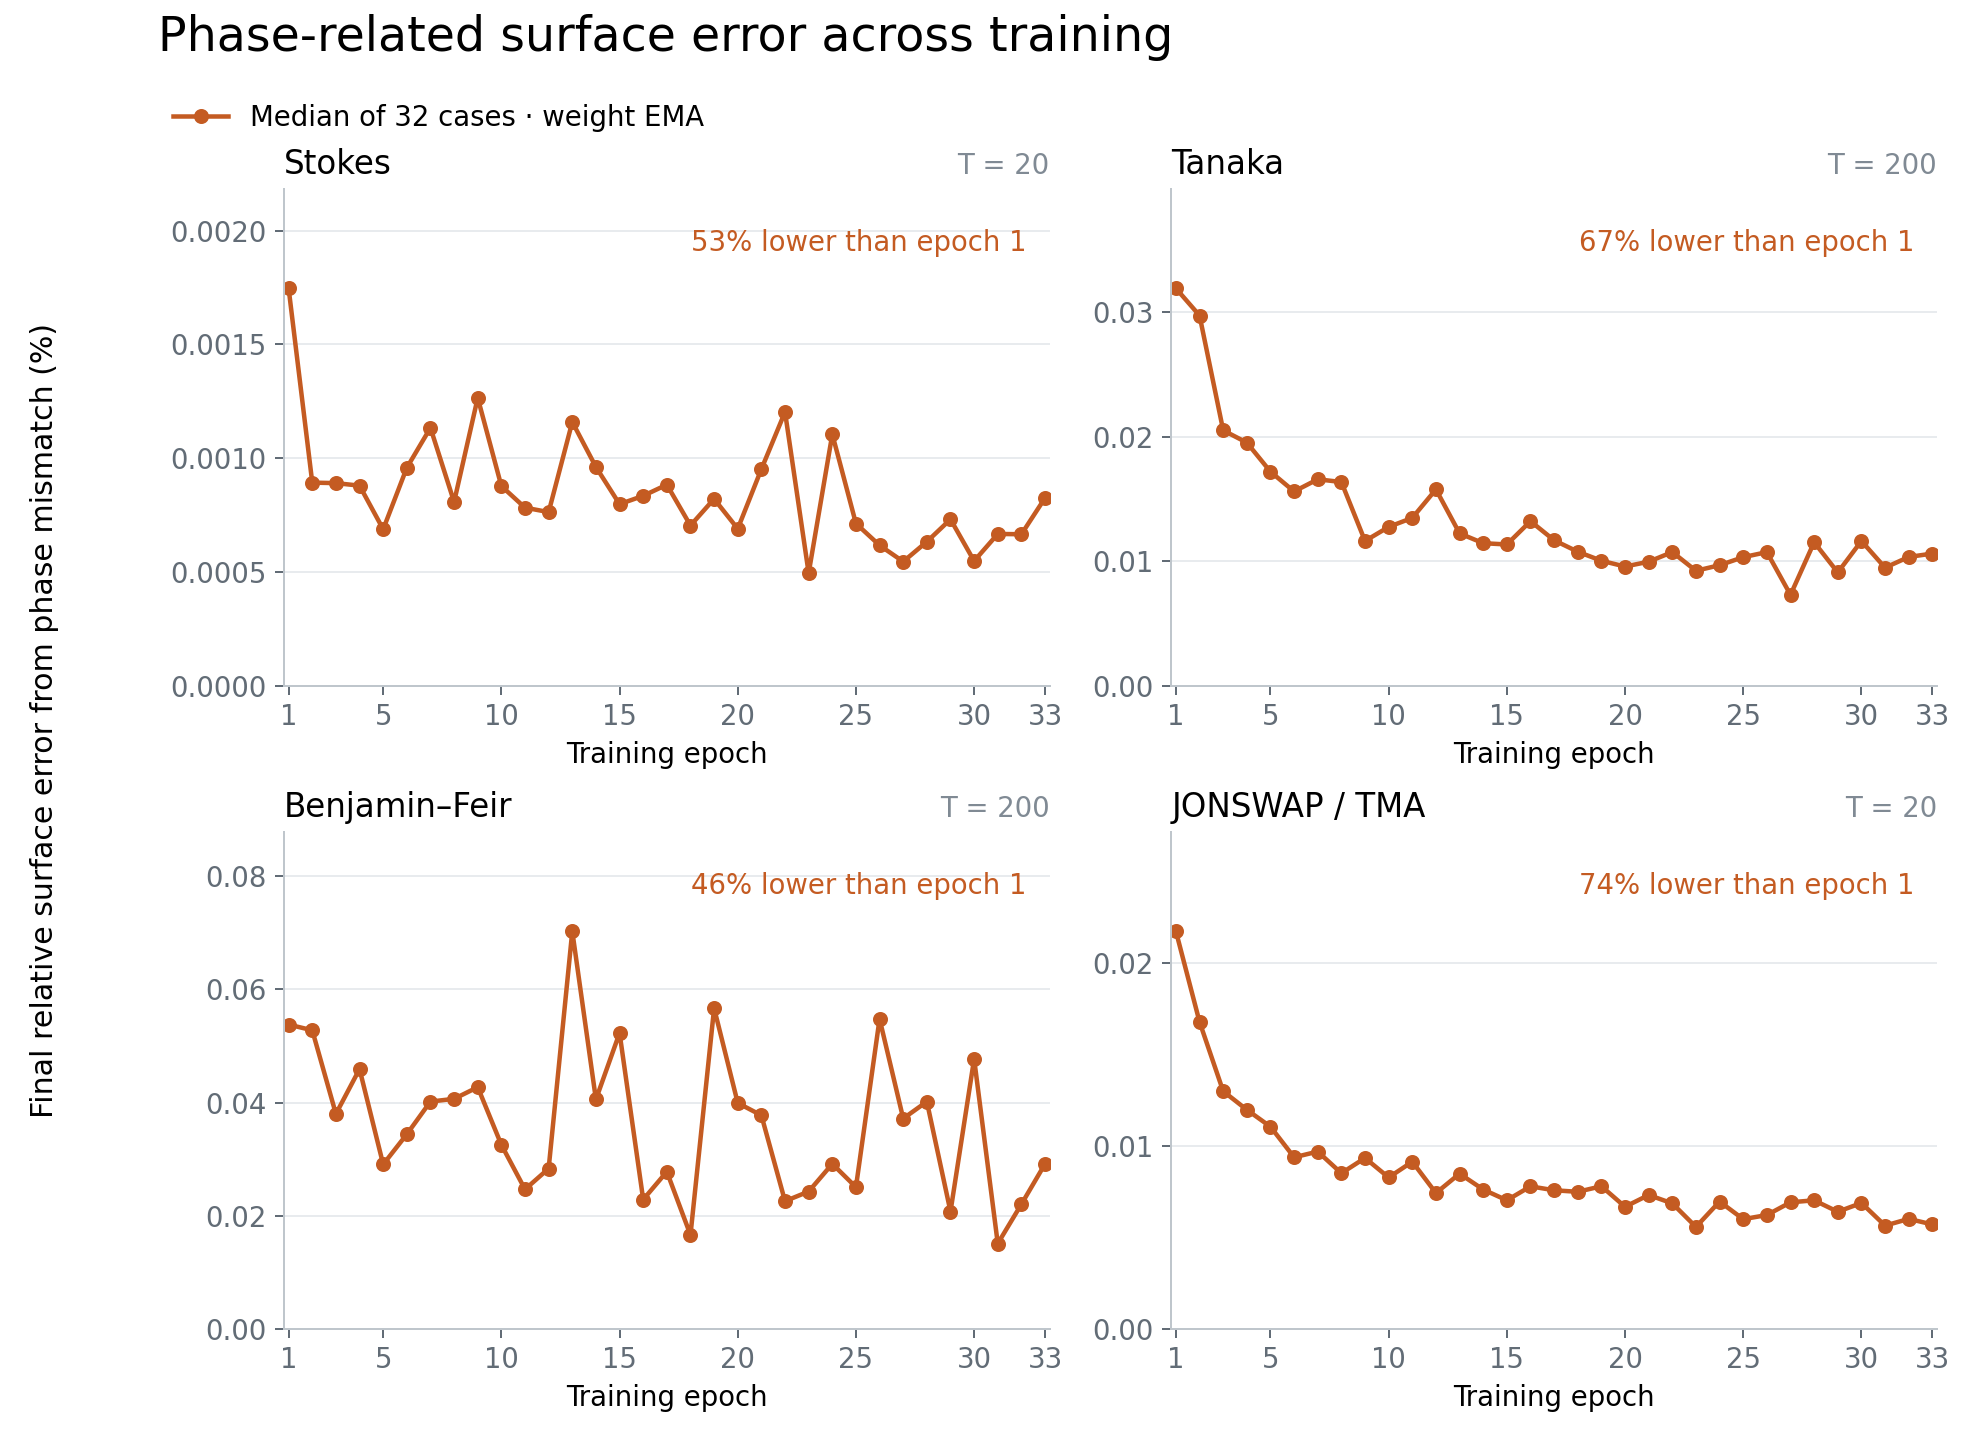
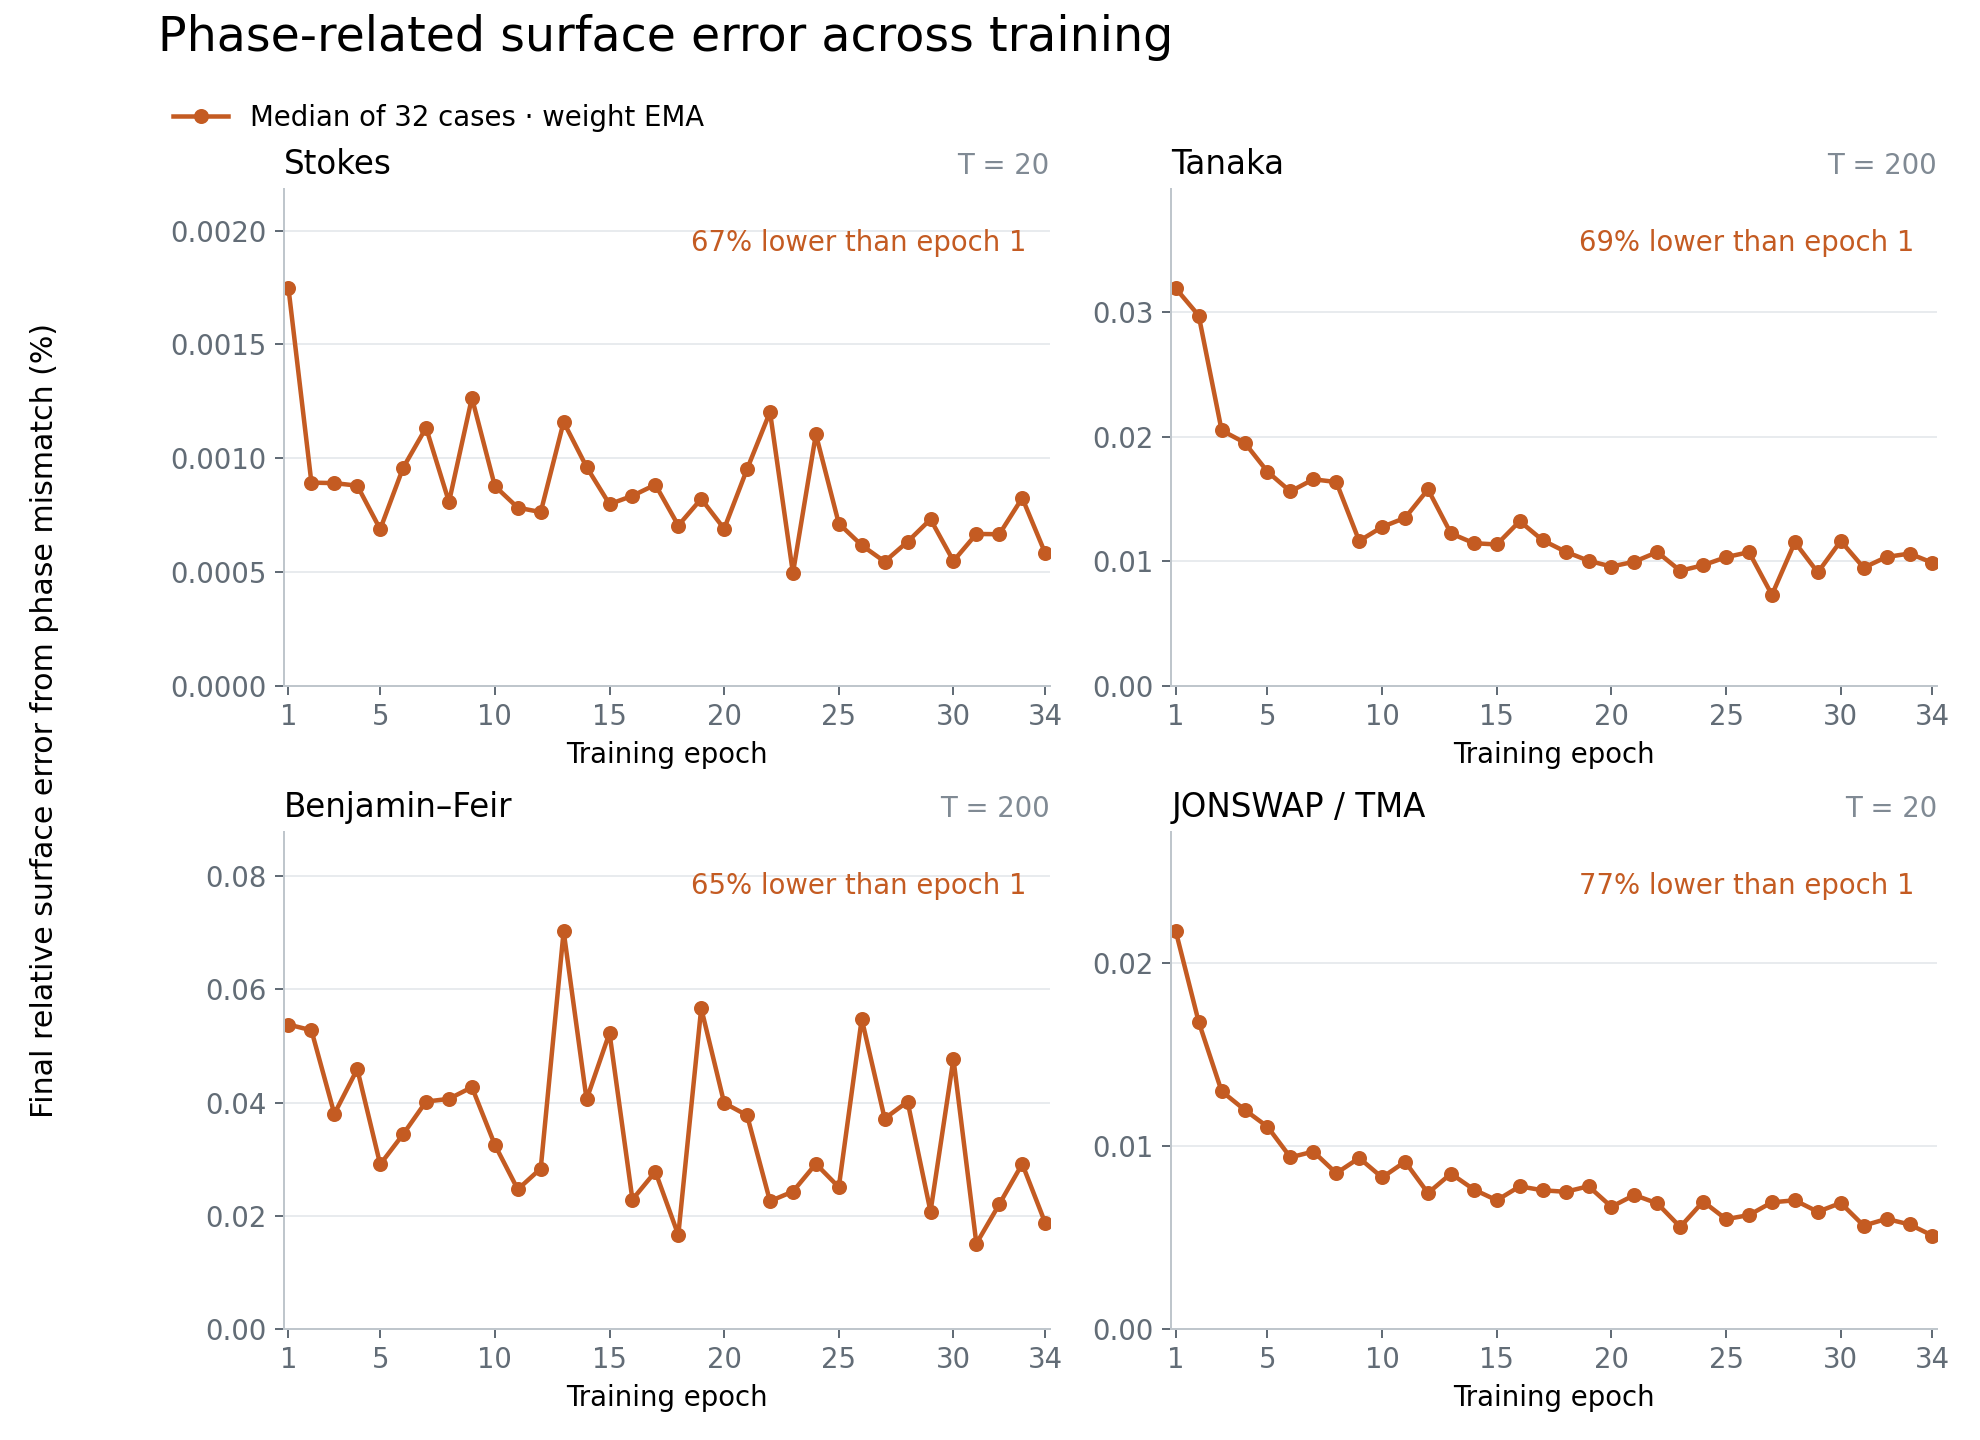
Record epoch 34 EMA results and recent rollout trend

diff --git a/paper-plots/plot_phase_diagnostics.py b/paper-plots/plot_phase_diagnostics.py
@@ -75,7 +75,7 @@ def main() -> None:
         "pdf.fonttype": 42, "ps.fonttype": 42,
     })
     if args.phase_training:
-        epochs = np.arange(1, 34)
+        epochs = np.arange(1, 35)
         evaluations = [
             ROOT / "outputs/c27_phase1_lr8_momentum_half_ema995_grad05_adam05_b2099_batch16_hd04_band128_nested1_gamma32_full_20261012/eval_fast_weight_ema_nestedfused_contextbatch",
             *(ROOT / f"outputs/c27_nested_b16_ema_low_lr_continue_20261014/eval_epoch{epoch}_weight_ema" for epoch in (2, 3)),

diff --git a/experiments/experiments-2026-10-17.md b/experiments/experiments-2026-10-17.md
@@ -1,6 +1,6 @@
 # Experiments — 2026-10-17
 
-Epoch 31 remains the aggregate rollout best through epoch 33 under the approved low-LR continuation. Epoch 33's pooled terminal surface-error GM rises 22.2% versus 31; phase-related error rises 27.4% and amplitude-related error rises 3.0%. JONSWAP improves 5.9%, while the other three families regress. Figure 12c retains epoch-31 weight EMA with unchanged measured Ada timings; Figure 22 includes epochs 1–33. Validation-best remains 32, with patience 1/5; epoch 34 resumed automatically. The longer-run experiment remains ongoing.
+Epoch 31 remains the aggregate rollout best through epoch 34 under the approved low-LR continuation. Epoch 34 is second-best: pooled terminal surface-error GM is 3.1% above epoch 31 and 15.6% below epoch 33. The geometric mean over all 128 cases and epochs 30–34 is 12.7% below epochs 25–29, with all four families improving. Figure 12c retains epoch 31 with unchanged measured Ada timings; Figure 22 includes epochs 1–34. Validation-best remains 32, with patience 2/5; epoch 35 resumed automatically. The longer-run experiment remains ongoing.
 
 | Date | Time | File / Variant | Motivation | What Tried / Evidence | Correctness | Timing | Decision |
 | --- | --- | --- | --- | --- | --- | --- | --- |
@@ -9,3 +9,4 @@ Epoch 31 remains the aggregate rollout best through epoch 33 under the approved 
 | 2026-10-17 | 06:03 | `outputs/c27_nested_b16_ema_low_lr_ep60_20261014`: epoch 31 primary EMA; Figures 12c/22 | Test whether continued low-LR training can extend the first-epoch gains after recent rollout fluctuations; select on all128 cases and preserve a new best before automatic checkpoint retention. | New rollout best. Pooled eta/xi GM31/23=.896659/.906934 (76/76 wins),31/30=.661241/.656462 (87/88),31/1=.335411/.330288 (116/116). Eta/M2=.156786 (101 wins),eta/M3=.660689 (72). Family eta31/23 S/T/BF/J=.941919/.848875/.889324/.909059; all four terminal eta/xi and whole-trajectory eta GMs improve. Eta median/p95 percent: .000726501/.011048921, .010134870/.053794787, .020512522/.063563035, .007118716/.054904525. Pooled eta GM/median/p95=.005764420/.008774452/.054318073%; xi GM=.004503350%. Pooled terminal medians and Stokes' eta p95 worsen versus23, so improvement is not universal. Whole-trajectory eta31/23=.857492; exact phase=.900113,amplitude=.936694. Stokes phase GM rises2.1%; other family phase GMs improve. Validation selection1.165704442e-5 improves3.4634% over29; best31,patience0/5. | Independent CPU audit verifies matching128 IDs/times/depths across23/30/E1/M2/M3, finite fields, valid references, positive water depth and no configured failures; terminal eta/xi/Gxi norms match exactly. Root independently reproduces terminal/trajectory errors and direct Fourier phase/amplitude identity and ranks all31 epochs. Six state/export/best counters22856145; all52 EMA arrays/40384 scalars match. Retained `rollout_best_epoch31_ckpt/ckpt_31` plus metadata; all264 leaves/201924 scalars exactly match latest full state. Both EMAs,LR8e-6 and full-loss detached rollout supervision unchanged. Figure12c uses31 with unchanged measured B1 timings; fixed-case eta percent .000111603/.030684343/.030865586/.017080709. Figure22 phase medians .000667450/.009487865/.015062279/.005635039%, respectively61.8/70.3/72.0/74.0% below1. | Training02:04, finished within observed05:53–05:54; validation/export05:57; all EMA rollouts06:01; epoch32 resumed06:01. CPU audit/render06:01 onward; no new GPU timing. | MERGE Figures12c/22 refresh; select and retain31 by pooled terminal eta GM. Continue approved60-epoch ceiling and validation-patience-five rule unchanged; the60–120-epoch transfer goal remains ongoing. |
 | 2026-10-17 | 08:12 | `outputs/c27_nested_b16_ema_low_lr_ep60_20261014`: epoch 32 primary EMA; Figure 22 | Check whether the approved longer run extends epoch31's rollout gains and whether its phase-related improvements persist; keep selection based on all128 cases. | Retain31. Pooled eta/xi GM32/31=1.181598/1.188772 (63/59 wins),32/23=1.059491/1.078138 (69/69),32/1=.396321/.392637 (107/104). Eta/M2=.185258 (99 wins),eta/M3=.780669 (70). Family eta32/31 S/T/BF/J=1.367703/1.006387/1.480249/.956726: JONSWAP improves4.3%; Stokes/BF drive the regression. Eta median/p95 percent: .000668846/.007673295, .011367958/.101859348, .022543480/.097444241, .007275876/.052462251. Pooled eta GM/median/p95=.006811229/.010422038/.082574499%; xi GM=.005353454%. Whole-trajectory eta32/31=1.225133; exact phase=1.215731,amplitude=.978406. Stokes' median/p95 improve despite its worse GM. Validation selection1.144733182e-5 improves1.7990% over31; best32,patience0/5. | Independent CPU audit verifies matching128 IDs/times/depths across31/23/E1/M2/M3, identical neural reference eta, finite fields, valid references, positive water depth and no configured failures; terminal eta/xi/Gxi norms match exactly. Root independently reproduces terminal/trajectory errors and direct Fourier phase/amplitude identity and ranks all32 epochs. Six state/export/best counters23593440; all52 EMA arrays/40384 scalars match. Both EMAs,LR8e-6 and full-loss detached rollout supervision unchanged. Figure12c retains31 and unchanged measured B1 timings. Figure22 includes32; phase medians .000666176/.010346990/.022022162/.006002969%, respectively61.8/67.6/59.0/72.4% below1. Fixed-case32 eta percent .000282482/.054398182/.019063714/.016977287: improved BF/JONSWAP examples do not overturn pooled-GM selection. | Training02:02, finished within observed08:02–08:03; validation/export08:07; all EMA rollouts and automatic epoch33 resume08:10. CPU audit/render08:11 onward; no new GPU timing. | MERGE phase-history refresh; retain31 as rollout best. Continue approved60-epoch ceiling and validation-patience-five rule unchanged; sustained long-run transfer remains under evaluation. |
 | 2026-10-17 | 10:20 | `outputs/c27_nested_b16_ema_low_lr_ep60_20261014`: epoch 33 primary EMA; Figure 22 | Test whether continued low-LR training extends the first-epoch gains beyond the selected epoch31 checkpoint, using all128 rollouts and their phase decomposition. | Retain31. Pooled eta/xi GM33/31=1.222421/1.247238 (56/53 wins),33/32=1.034548/1.049182 (69/68),33/1=.410013/.411947 (112/112). Eta/M2=.191658 (103 wins),eta/M3=.807640 (72). Family eta33/31 S/T/BF/J=1.310055/1.221025/1.483280/.941121. Pooled eta GM/median/p95=.007046546/.009907255/.076501990%; xi GM=.005616748%. Whole-trajectory eta33/31=1.214137 but33/32=.991025; phase33/31=1.274043,amplitude=1.030149. Validation selection1.152619779e-5 rises.6889% over32; best32,patience1/5. | Independent CPU checks confirm matching128 IDs/times/depths across31/32/E1/M2/M3, finite fields, valid references, positive water depth and no configured failures; terminal eta/xi/Gxi norms match saved errors exactly. Root independently verifies terminal/trajectory errors, direct Fourier phase/amplitude identity and all33-epoch ranking. Latest/export and optimizer counters24330735; all52 EMA arrays/40384 scalars match latest shadows. Both EMAs,LR8e-6 and full-loss detached rollout supervision unchanged. Figure12c retains31 and unchanged measured B1 timings. Figure22 includes33; phase medians .000825493/.010621301/.029148369/.005699813%, respectively52.7/66.7/45.8/73.7% below1. Fixed-case33 eta percent .000159155/.067011306/.057880772/.016131158 do not change aggregate selection. | Training02:00, finished within observed10:10–10:11; validation/export10:14; all EMA rollouts and automatic epoch34 resume10:18. CPU audit/render10:18 onward; no new GPU timing. | MERGE phase-history refresh; retain31 as rollout best. Continue approved60-epoch ceiling and validation-patience-five rule unchanged; the long-run transfer experiment remains ongoing. |
+| 2026-10-17 | 12:29 | `outputs/c27_nested_b16_ema_low_lr_ep60_20261014`: epoch 34 primary EMA; Figure22 and recent-window diagnostic | Test whether the longer run recovers from recent rollout fluctuations; distinguish a new checkpoint's performance from sustained multi-epoch progress without changing selection or stopping. | Retain31;34 is second-best. Pooled eta/xi GM34/31=1.031368/1.032149 (64/64 wins),34/33=.843709/.827548 (79/81),34/1=.345932/.340906 (114/115). Eta/M2=.161704 (109 wins),eta/M3=.681414 (74). Family eta34/31 S/T/BF/J=.920377/1.132222/1.149374/.944703. Pooled eta GM/median/p95=.005945238/.008890112/.059523900%; xi GM=.004648129%. Whole-trajectory eta34/31=1.042405; phase=1.068093,amplitude=.944190. Across all128 cases and five epochs, eta GM30–34=.006781168% versus25–29=.007765261% (ratio.873270); family ratios.897470/.891788/.794065/.915074. Latest-window/E1=.394572. Validation1.161379683e-5 is1.4542% above best32; patience2/5. | Independent CPU checks confirm matching128 IDs/times/depths across31/33/E1/M2/M3, finite fields, valid references, positive water depth and no configured failures; terminal eta/xi/Gxi norms match exactly. Root independently verifies terminal/trajectory errors, direct Fourier phase/amplitude identity and all34-epoch ranking. Latest/export and optimizer counters25068030; all52 EMA arrays/40384 scalars match latest shadows. Both EMAs,LR8e-6 and full-loss detached rollout supervision unchanged. Figure12c retains31 and measured B1 timings. Figure22 includes34; phase medians .000583413/.009882252/.018737368/.005089064%, respectively66.6/69.0/65.2/76.6% below1. Fixed-case34 eta percent .000096782/.016898108/.043571392/.020253404 do not alter aggregate selection. | Training02:02, finished within observed12:20–12:21; validation/export12:24; all EMA rollouts and automatic epoch35 resume12:28. CPU audit/render12:28 onward; no new GPU timing. | MERGE phase-history refresh and descriptive window comparison; retain31. Continue approved60-epoch ceiling and validation-patience-five rule unchanged; sustained60–120-epoch transfer remains under evaluation. |

diff --git a/paper-plots/README.md b/paper-plots/README.md
@@ -435,7 +435,7 @@ UV_CACHE_DIR=/tmp/codex-uv-cache uv run --no-sync paper-plots/plot_neural_advant
 
 Figure 12c compares the Ada classical solver, epoch-31 EMA candidate, and older
 rollout-supervised network. Epoch 31 is the best overall evaluated checkpoint
-through epoch 33 by pooled geometric-mean terminal surface error across the 128 cases;
+through epoch 34 by pooled geometric-mean terminal surface error across the 128 cases;
 each panel still displays the fixed timed case, not the family median. Runtime
 measurements are unchanged for the same inference path. It omits the RMS/context
 and spectral-DNO models and historical timing annotations:
@@ -760,22 +760,27 @@ OPENBLAS_NUM_THREADS=1 OMP_NUM_THREADS=1 UV_CACHE_DIR=/tmp/dno-uv-cache \
 [PNG](figures/22-phase-error-vs-training.png) / [PDF](figures/22-phase-error-vs-training.pdf)
 
 Terminal Fourier-phase error for primary weight-EMA checkpoints at every epoch
-from 1 through 33, using the same 32 cases per family. The y axis uses Figure 20's
+from 1 through 34, using the same 32 cases per family. The y axis uses Figure 20's
 relative-error magnitude, not the percentage of total squared error. Each point
 is the median of `100*sqrt(phase_energy/reference_energy)` at the final rollout
-time. All thirty-three measurements are shown; the curves are not monotonic.
-Epoch-33 median errors are 0.000825493%, 0.0106213%, 0.0291484% and
-0.00569981% for Stokes, Tanaka, Benjamin–Feir and JONSWAP/TMA, respectively
-52.7%, 66.7%, 45.8% and 73.7% below epoch 1. Against epoch 31, pooled
-geometric-mean terminal surface error rises 22.2%, whole-trajectory surface error
-rises 21.4%, phase-related error rises 27.4%, and amplitude-related error rises
-3.0%. JONSWAP improves 5.9% in terminal surface-error geometric mean; the other
-three families regress. Against epoch 32, terminal surface error rises 3.5%
-while whole-trajectory surface error falls 0.9%. Figure 12c retains epoch 31,
-selected using all 128 cases rather than the four plotted cases. Epoch 33's
-validation loss rises 0.69% over 32; validation-best remains 32, with
-early-stopping patience at 1/5.
+time. All thirty-four measurements are shown; the curves are not monotonic.
+Epoch-34 median errors are 0.000583413%, 0.00988225%, 0.0187374% and
+0.00508906% for Stokes, Tanaka, Benjamin–Feir and JONSWAP/TMA, respectively
+66.6%, 69.0%, 65.2% and 76.6% below epoch 1. Epoch 34 is the second-best
+aggregate rollout checkpoint: terminal surface-error geometric mean is 3.1%
+above epoch 31 but 15.6% below epoch 33. Against epoch 31, whole-trajectory
+surface error rises 4.2%, phase-related error rises 6.8%, and amplitude-related
+error falls 5.6%. Stokes and JONSWAP improve in terminal surface-error geometric
+mean, while Tanaka and BF regress. Figure 12c retains epoch 31, selected using
+all 128 cases rather than the four plotted cases. Epoch 34's validation loss
+is 1.45% above epoch 32; validation-best remains 32, with early-stopping
+patience at 2/5.
 Validation loss alone does not select the rollout checkpoint.
+
+As a separate trend diagnostic, terminal surface-error geometric mean over all
+128 cases and epochs 30–34 is 0.00678117%, versus 0.00776526% for epochs 25–29:
+a 12.7% reduction, with all four families improving. These windows do not
+change the checkpoint-selection or early-stopping rules.
 
 ```sh
 OPENBLAS_NUM_THREADS=1 OMP_NUM_THREADS=1 UV_CACHE_DIR=/tmp/dno-uv-cache \

diff --git a/EXPERIMENTS.md b/EXPERIMENTS.md
@@ -33,11 +33,11 @@ could not be recovered at all are in
 
 ## Dated logs
 
-99 files, 1632 rows.
+99 files, 1633 rows.
 
 | Date | Rows | File | Size |
 | --- | --- | --- | --- |
-| 2026-10-17 | 5 | [`experiments/experiments-2026-10-17.md`](experiments/experiments-2026-10-17.md) | 11 KB |
+| 2026-10-17 | 6 | [`experiments/experiments-2026-10-17.md`](experiments/experiments-2026-10-17.md) | 13 KB |
 | 2026-10-16 | 12 | [`experiments/experiments-2026-10-16.md`](experiments/experiments-2026-10-16.md) | 23 KB |
 | 2026-10-15 | 37 | [`experiments/experiments-2026-10-15.md`](experiments/experiments-2026-10-15.md) | 64 KB |
 | 2026-10-14 | 16 | [`experiments/experiments-2026-10-14.md`](experiments/experiments-2026-10-14.md) | 38 KB |
